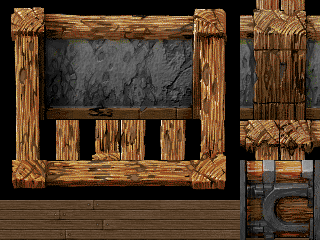
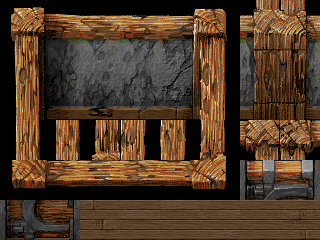
Make the tilemap settings more dynamic

Changed region(s): [[0.75, 0.8167, 1.0, 1.0], [0.0, 0.8167, 0.25, 1.0]]

diff --git a/app/models/room.rb b/app/models/room.rb
@@ -1,80 +1,78 @@
 class Room
-  SAMPLE_WOOD_V1 = [0,1,6,43,43,7,4,5,8,9,14,38,39,15,12,13,24,17,22,46,47,23,20,21,24,41,41,41,41,41,41,27,24,41,41,41,41,41,41,21,24,41,41,41,41,41,41,27,26,41,41,41,41,41,41,29,32,33,34,35,35,34,36,37]
+  SAMPLE_WOOD_V1 = [0,1,6,43,43,7,4,5,8,9,14,38,39,15,12,13,24,17,22,40,41,23,20,21,24,45,45,45,45,45,45,27,24,45,45,45,45,45,45,21,24,45,45,45,45,45,45,27,26,45,45,45,45,45,45,29,32,33,34,35,35,34,36,37]
 
-  attr_accessor :id
+  attr_accessor :id, :tiles_csv, :w, :h, :filename, :tile_size,
+                :tilemap_tile_width, :tilemap_tile_height, :floor_index
 
   def self.find(_id)
-    new.tap {|r| r.id = _id }
+    #new.tap {|r| r.id = _id }
+    sample_wood
   end
 
-  def w
-    id.to_i % 12 + 4
-  end
-
-  def h
-    (id.to_f / 12).floor % 12 + 4
+  def self.sample_wood
+    new.tap do |r|
+      r.tiles_csv = SAMPLE_WOOD_V1
+      r.w = 8
+      r.h = 8
+      r.filename = 'lost_garden_walls_v1.png'
+      r.tile_size = 40
+      r.tilemap_tile_width = 8
+      r.tilemap_tile_height = 6
+      r.floor_index = 42
+    end
   end
 
   def to_json
-    tiles = []
-
-    (1...w).each do |x|
-      (1...h).each do |y|
-        tiles << {
-          components: ['grass'+(((x*y)**id.to_i)%4+1).floor.to_s],
-          tilePos:    {x:x,y:y}
-        }
-      end
-    end
-
-    (0..w).each do |x|
-      tiles << {
-        components: ['Solid','dirt'],
-        tilePos:    {x:x,y:0}
-      }
-      tiles << {
-        components: ['Solid','dirt'],
-        tilePos:    {x:x,y:h}
-      }
-    end
-
-    (1..h).each do |y|
-      tiles << {
-        components: ['Solid','dirt'],
-        tilePos:    {x:0,y:y}
-      }
-      tiles << {
-        components: ['Solid','dirt'],
-        tilePos:    {x:w,y:y}
-      }
-    end
-
-    return {
+    {
       room: {
         tiles: tiles,
-        spawn: {x:32*w/2, y:32*h/2},
-        tile_dimensions: {x:32, y:32},
+        spawn: {x:tile_size*w/2, y:tile_size*h/2},
+        tileDimensions: {x:tile_size, y:tile_size},
         tilemaps: [
           { 
             url: tile_url,
-            components: {
-              grass1: [0,0],
-              grass2: [1,0],
-              grass3: [2,0],
-              grass4: [3,0],
-              dirt: [8,0]
-            }
+            components: component_definitions
           }
         ]
       }
     }
   end
 
+  def component_definitions
+    i = 0
+    {}.tap do |cds|
+      (0...tilemap_tile_height).each do |y|
+        (0...tilemap_tile_width).each do |x|
+          cds[base_filename+'_'+i.to_s] = [x,y]
+          i+= 1
+        end
+      end
+    end
+  end
+
+  def tiles
+    i = 0
+
+    tiles_csv.map do |t|
+      {
+        tilePos: {x: i % w, y: i / w},
+        components: [base_filename+'_'+t.to_s]
+      }.tap do |tile|
+        tile[:components] << 'Solid' if t < floor_index
+        i+= 1
+      end
+    end
+  end
+
+  def base_filename
+    filename.gsub(/\.[^.]+$/,'')
+  end
+
   def tile_url
     URI::HTTP.build(
       host: RoomsApi::HOSTNAME,
       port: RoomsApi::PUBLIC_PORT.to_i,
-      path: ActionController::Base.helpers.image_path('tiles.png')
+      path: ActionController::Base.helpers.image_path(filename)
     ).to_s
   end
 end

diff --git a/spec/models/room_spec.rb b/spec/models/room_spec.rb
@@ -1,0 +1,80 @@
+require 'spec_helper'
+
+describe Room do
+  let(:room) { Room.new }
+  subject { room }
+
+  describe '#tiles' do
+    subject { room.tiles }
+
+    context "with a filename of 'fudge_muffin.png'" do
+      before { room.filename = 'fudge_muffin.png' }
+
+      context 'with a width and height of 2' do
+        before do
+          room.w = 2
+          room.h = 2
+        end
+
+        context 'with a floor_index of 1' do
+          before { room.floor_index = 2 }
+
+          context 'with a tiles_csv of [5,1,3,2]' do
+            before { room.tiles_csv = [5,1,3,2] }
+
+            its(:size) { should eql(4) }
+
+            context 'for the first tile' do
+              subject { room.tiles.first }
+
+              its([:tilePos]) { should == {x:0,y:0} }
+              its([:components]) { should == ['fudge_muffin_5'] }
+            end
+
+            context 'for the second tile' do
+              subject { room.tiles[1] }
+
+              its([:tilePos]) { should == {x:1,y:0} }
+              its([:components]) { should == ['fudge_muffin_1','Solid'] }
+            end
+
+            context 'for the third tile' do
+              subject { room.tiles[2] }
+
+              its([:tilePos]) { should == {x:0,y:1} }
+              its([:components]) { should == ['fudge_muffin_3'] }
+            end
+
+            context 'for the fourth tile' do
+              subject { room.tiles[3] }
+
+              its([:tilePos]) { should == {x:1,y:1} }
+              its([:components]) { should == ['fudge_muffin_2'] }
+            end
+          end
+        end
+      end
+    end
+  end
+
+  describe '#component_definitions' do
+    subject { room.component_definitions }
+
+    context 'with a tilemap of width 2 and height 2' do
+      before do
+        room.tilemap_tile_width = 2
+        room.tilemap_tile_height = 2
+      end
+
+      context "with a filename of 'porkchop_sandwiches.gif'" do
+        before { room.filename = 'porkchop_sandwiches.gif' }
+
+        its('keys.size') { should eql(4) }
+        its(['porkchop_sandwiches_0']) { should == [0,0] }
+        its(['porkchop_sandwiches_1']) { should == [1,0] }
+        its(['porkchop_sandwiches_2']) { should == [0,1] }
+        its(['porkchop_sandwiches_3']) { should == [1,1] }
+      end
+    end
+  end
+end

diff --git a/spec/controllers/rooms_controller_spec.rb b/spec/controllers/rooms_controller_spec.rb
@@ -23,8 +23,8 @@ describe RoomsController, type: :controller do
         its([:y]) { should be_a(Fixnum)}
       end
 
-      describe "for the tile_dimensions" do
-        subject { room_json[:tile_dimensions] }
+      describe "for the tileDimensions" do
+        subject { room_json[:tileDimensions] }
 
         its([:x]) { should be_a(Fixnum)}
         its([:y]) { should be_a(Fixnum)}
